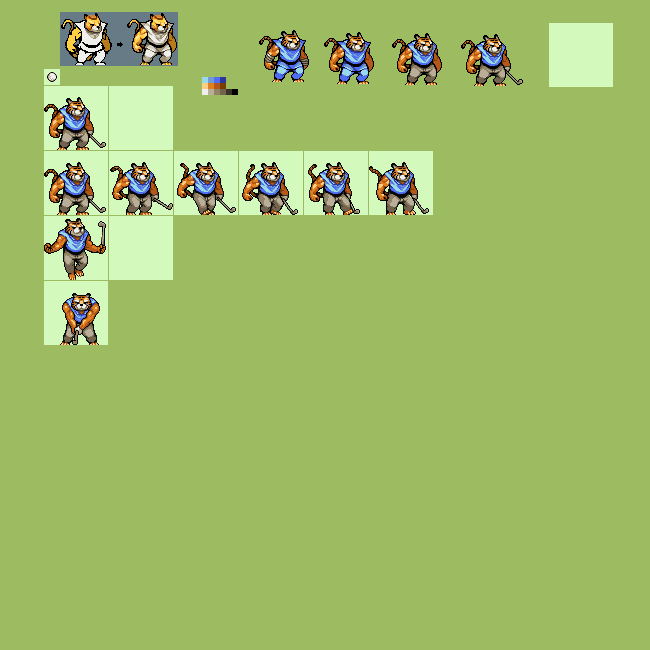
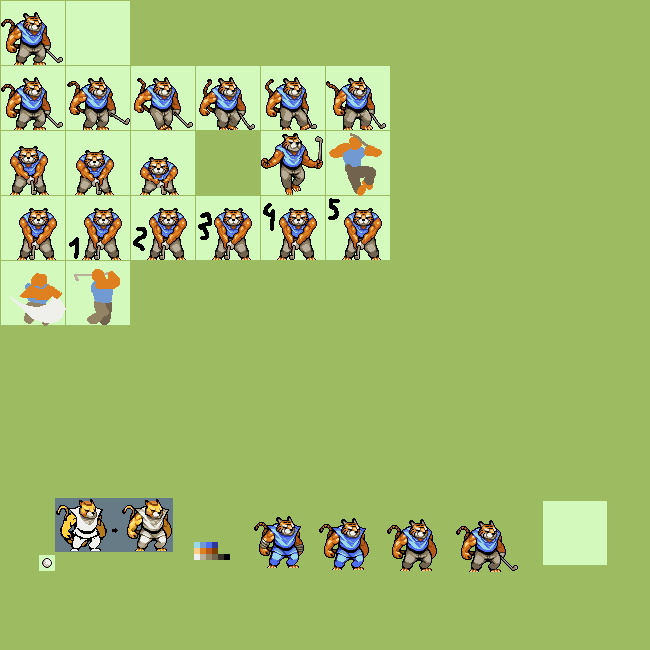
fuque

diff --git a/player.py b/player.py
@@ -1,5 +1,5 @@
 from balls import *
-from pyganim import *
+import pyganim
 import spritesheet
 
 framerate = 1 / (1000/60)
@@ -7,15 +7,32 @@ framerate = 1 / (1000/60)
 alpha = (211, 249, 188) # 0xD3F9BC
 
 sheet = spritesheet.spritesheet("tiger.png")
-anim_idle = sheet.image_at((44,86,64,64), alpha)
-anim_jump = sheet.image_at((44,216,64,64), alpha)
-anim_walk = PygAnimation([
-            (sheet.image_at(( 44, 151, 64, 64), alpha), 0.1),
-            (sheet.image_at((109, 151, 64, 64), alpha), 0.1),
-            (sheet.image_at((174, 151, 64, 64), alpha), 0.1),
-            (sheet.image_at((239, 151, 64, 64), alpha), 0.1),
-            (sheet.image_at((304, 151, 64, 64), alpha), 0.1),
-            (sheet.image_at((369, 151, 64, 64), alpha), 0.1)])
+anim_idle = sheet.image_at((  1,  1,64,64), alpha)
+anim_walk = pyganim.PygAnimation([
+            (sheet.image_at((  1, 66, 64, 64), alpha), 0.1),
+            (sheet.image_at(( 66, 66, 64, 64), alpha), 0.1),
+            (sheet.image_at((131, 66, 64, 64), alpha), 0.1),
+            (sheet.image_at((196, 66, 64, 64), alpha), 0.1),
+            (sheet.image_at((261, 66, 64, 64), alpha), 0.1),
+            (sheet.image_at((326, 66, 64, 64), alpha), 0.1)])
+anim_jumpcharge = pyganim.PygAnimation([
+            (sheet.image_at((  1, 131, 64, 64), alpha), 0.2),
+            (sheet.image_at(( 66, 131, 64, 64), alpha), 0.2),
+            (sheet.image_at((131, 131, 64, 64), alpha), 0.2)])
+anim_jump = sheet.image_at((261,131,64,64), alpha)
+anim_fall = sheet.image_at((326,131,64,64), alpha)
+anim_golfcharge = pyganim.PygAnimation([
+            (sheet.image_at((  1, 196, 64, 64), alpha), 0.2),
+            (sheet.image_at(( 66, 196, 64, 64), alpha), 0.2),
+            (sheet.image_at((131, 196, 64, 64), alpha), 0.2),
+            (sheet.image_at((196, 196, 64, 64), alpha), 0.2),
+            (sheet.image_at((261, 196, 64, 64), alpha), 0.2),
+            (sheet.image_at((326, 196, 64, 64), alpha), 0.2)])
+anim_golf = pyganim.PygAnimation([
+            (sheet.image_at(( 1, 261, 64, 64), alpha), 0.1),
+            (sheet.image_at((66, 261, 64, 64), alpha), 0.1)])
+
+sfx_jump = pygame.mixer.Sound("sfx_jump.wav")
 
 from enum import Enum
 class PlayerStatus(Enum):
@@ -36,7 +53,7 @@ class Player(pygame.sprite.Sprite):
         self.hitbox.midbottom = self.rect.midbottom
         self.vel_x = 0.0
         self.vel_y = 0.0
-        self.maxvel_x = 30
+        self.maxvel_x = 35
         self.maxvel_y = 250
 
         self.status = PlayerStatus.idle
@@ -44,6 +61,8 @@ class Player(pygame.sprite.Sprite):
         self.flip = False
         self.inair = True
         self.jumpcharge = 0
+        self.golfcharge = 0
+        self.maxgolf = 70
 
         self.allow_jump = True
         self.allow_golf = True
@@ -60,18 +79,27 @@ class Player(pygame.sprite.Sprite):
 
         if self.status == PlayerStatus.damage:
             pass
-        elif input_up or input_down or input_left or input_right or input_A or input_B:
+        if self.status == PlayerStatus.jumpcharge:
+            self.jump(input_A)
+        if self.status == PlayerStatus.golfcharge:
+            self.golf(input_B)
+        elif input_left or input_right:
             self.walk(input_left, input_right)
+        elif input_A:
+        	self.jump(input_A)
+        elif input_B:
+        	self.golf(input_B)
         else:
             self.idle()
 
-        self.jump(input_A)
+        
+
         if self.inair:
             self.fall()
 
         self.update_rect(tiles, level_width, level_height)
 
-        if isinstance(self.image, PygAnimation):
+        if isinstance(self.image, pyganim.PygAnimation):
             #self.elapsed = self.image.elapsed
             self.image = self.image.getCurrentFrame()
         if self.flip:
@@ -135,16 +163,9 @@ class Player(pygame.sprite.Sprite):
         if input_left and input_right:
             self.flip = False
             self.vel_x = 0
-        elif input_right:
-            self.vel_x = self.maxvel_x
-            self.flip = False
-            if not self.inair:
-                self.status = PlayerStatus.walk
-                self.image = anim_walk
-                anim_walk.play()
-        elif input_left:
-            self.vel_x = -(self.maxvel_x / 2)
-            self.flip = True
+        else:
+            self.vel_x = self.maxvel_x if (input_right) else -self.maxvel_x
+            self.flip = input_left
             if not self.inair:
                 self.status = PlayerStatus.walk
                 self.image = anim_walk
@@ -152,22 +173,49 @@ class Player(pygame.sprite.Sprite):
 
     def fall(self):
         self.vel_y += 12
-        self.image = anim_jump
+        if self.vel_y <= 0:
+            self.image = anim_jump
+        else:
+            self.image = anim_fall
 
     def jump(self, input_A):
         if not input_A:
             self.allow_jump = True
         if not self.inair:
             if input_A:
-                self.status = PlayerStatus.jumpcharge
+                if self.status != PlayerStatus.jumpcharge:
+                    self.status = PlayerStatus.jumpcharge
+                    self.jumpcharge = 30
                 self.vel_x = 0
-                self.jumpcharge += 10
-                if self.jumpcharge > self.maxvel_y:
+                self.jumpcharge += 1
+                if self.jumpcharge < self.maxvel_y:
+                    self.image = anim_jumpcharge
+                    anim_jumpcharge.play()
+                else:
                     self.jumpcharge = self.maxvel_y
-            if ((self.jumpcharge >= self.maxvel_y) or
-                (self.jumpcharge >= 10 and not input_A)):
+                    anim_jumpcharge.stop()
+            if (self.jumpcharge >= self.maxvel_y):
                 self.status = PlayerStatus.jump
                 self.allow_jump = False
-                self.vel_y = -self.jumpcharge
+                self.vel_y = -(self.jumpcharge * 10)
                 self.jumpcharge = 0
                 self.inair = True
+
+    def golf(self, input_B):
+        if input_B:
+            self.status = PlayerStatus.golfcharge
+            self.vel_x = 0
+            self.golfcharge += 1
+            if self.golfcharge < self.maxgolf:
+                self.image = anim_golfcharge
+                anim_golfcharge.play()
+            else:
+                self.golfcharge = self.maxgolf
+                anim_golfcharge.stop()
+        elif self.golfcharge > 0:
+            self.status = PlayerStatus.golf
+            self.allow_golf = False
+            #ball.vel_y = -(self.golfcharge * 10)
+            self.golfcharge = 0
+        else:
+            self.allow_golf = True
